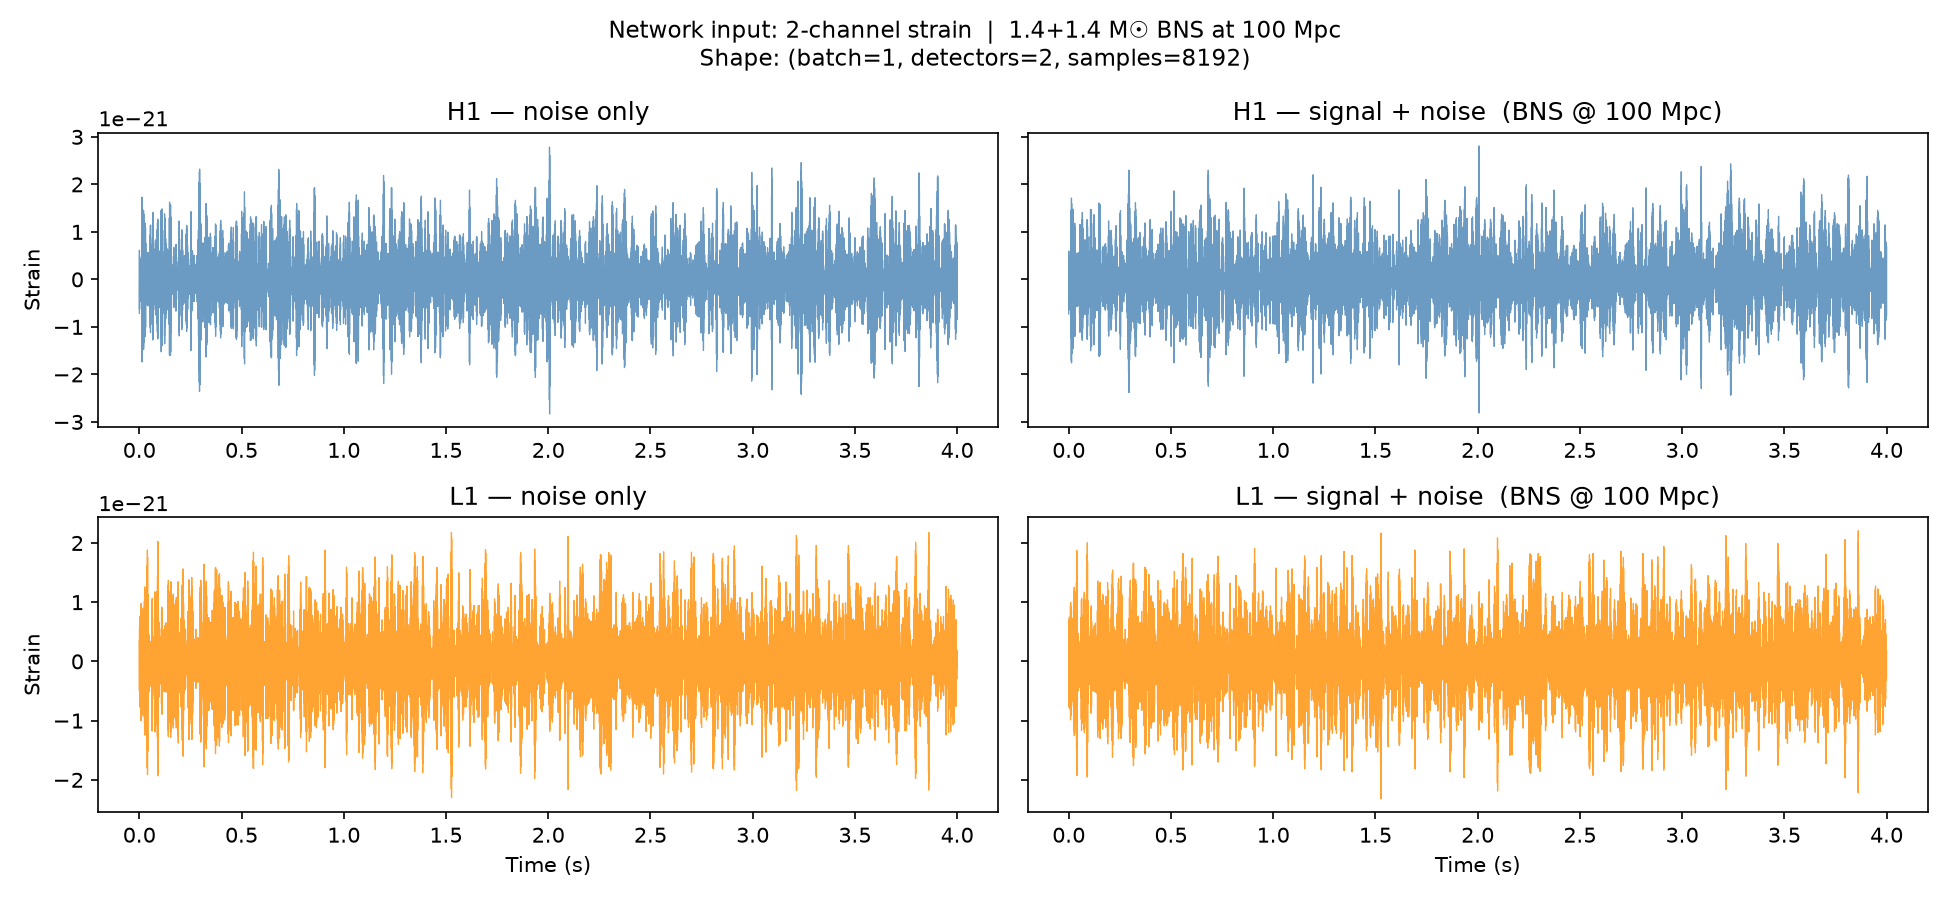
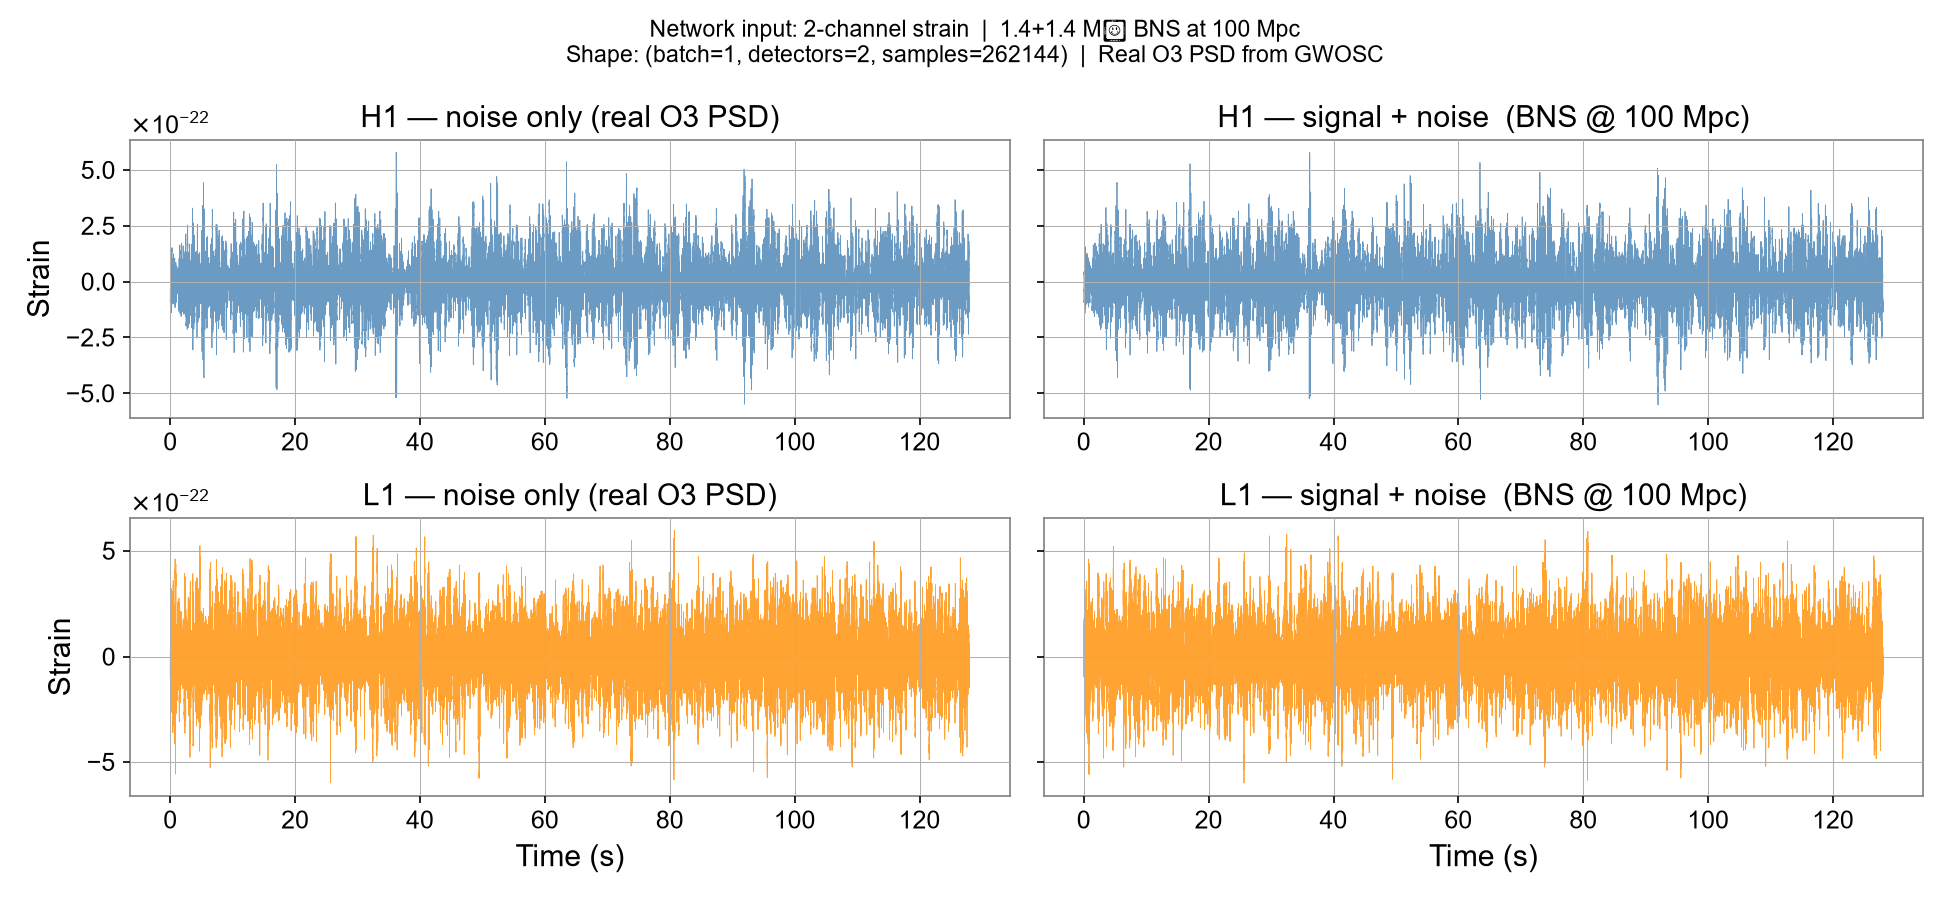
Fix: 128s BNS waveform, real GWOSC PSD, random antenna factors

diff --git a/injection_pipeline.py b/injection_pipeline.py
@@ -1,18 +1,58 @@
+"""
+BNS injection pipeline using ml4gw + real GWOSC data.
+
+Fixes from Bhavya's feedback:
+  1. Real O3 PSD from GWOSC instead of analytic approximation
+  2. Random antenna factors sampled from sky location distribution
+  3. 128s duration to capture full BNS inspiral
+"""
+
 import torch
 import numpy as np
 import matplotlib.pyplot as plt
+from gwpy.timeseries import TimeSeries
 from ml4gw.waveforms import IMRPhenomD
 from ml4gw.waveforms.generator import TimeDomainCBCWaveformGenerator
 from ml4gw.waveforms.conversion import chirp_mass_and_mass_ratio_to_components
 
 SAMPLE_RATE = 2048
-DURATION    = 4
+DURATION    = 128
 F_MIN       = 20.0
 F_REF       = 20.0
 SEED        = 42
 torch.manual_seed(SEED)
 np.random.seed(SEED)
 
+# ── 1. fetch real O3 PSD from GWOSC ─────────────────────────────────────────
+# GW170817 (BNS) segment: GPS 1187008882, using surrounding background data
+print("Fetching GWOSC data for PSD estimation...")
+# GW150914 event: 4096s of public O1 data, guaranteed to exist
+GPS_START = 1126256640
+GPS_END   = 1126260736   # 4096s chunk
+
+
+data_H1 = TimeSeries.fetch_open_data("H1", 1126259446, 1126259702, sample_rate=4096)
+data_L1 = TimeSeries.fetch_open_data("L1", 1126259446, 1126259702, sample_rate=4096)
+data_H1 = data_H1.resample(SAMPLE_RATE)
+data_L1 = data_L1.resample(SAMPLE_RATE)
+print(f"H1 duration: {data_H1.duration}s, L1 duration: {data_L1.duration}s")
+
+# Estimate PSD using Welch method (4s FFT segments)
+psd_H1 = data_H1.psd(fftlength=4, overlap=2, method="median")
+psd_L1 = data_L1.psd(fftlength=4, overlap=2, method="median")
+print("PSD estimation done.")
+
+# Interpolate PSDs onto our frequency grid
+N     = int(DURATION * SAMPLE_RATE)
+freqs = np.fft.rfftfreq(N, d=1.0 / SAMPLE_RATE)
+df    = freqs[1] - freqs[0]
+
+psd_H1_interp = np.interp(freqs, np.array(psd_H1.frequencies), np.array(psd_H1.value))
+psd_L1_interp = np.interp(freqs, np.array(psd_L1.frequencies), np.array(psd_L1.value))
+psd_H1_interp[psd_H1_interp <= 0] = 1e-80
+psd_L1_interp[psd_L1_interp <= 0] = 1e-80
+
+# ── 2. generate BNS waveform ─────────────────────────────────────────────────
 chirp_mass = torch.tensor([1.2189])
 mass_ratio = torch.tensor([1.0])
 mass_1, mass_2 = chirp_mass_and_mass_ratio_to_components(chirp_mass, mass_ratio)
@@ -22,7 +62,7 @@ params = {
     "mass_2":      mass_2,
     "s1z":         torch.tensor([0.0]),
     "s2z":         torch.tensor([0.0]),
-    "distance":    torch.tensor([100.0]), 
+    "distance":    torch.tensor([100.0]),
     "phic":        torch.tensor([0.0]),
     "inclination": torch.tensor([0.0]),
     "chirp_mass":  chirp_mass,
@@ -41,61 +81,48 @@ generator = TimeDomainCBCWaveformGenerator(
 )
 
 hc, hp = generator(**params)
-assert not torch.all(torch.isnan(hp)), "Waveform is all NaN — check params"
-hp = torch.nan_to_num(hp, nan=0.0) 
+hp = torch.nan_to_num(hp, nan=0.0)
 hc = torch.nan_to_num(hc, nan=0.0)
+print(f"Waveform shape: {hp.shape}")
 
-print(f"Waveform shape: {hp.shape}  |  samples: {hp.shape[-1]}")
+# ── 3. random antenna factors from sky location ───────────────────────────────
+# Sample ra, dec, psi uniformly; compute F+, Fx for each detector
+# Using simplified response for illustration
+ra  = np.random.uniform(0, 2 * np.pi)
+dec = np.arcsin(np.random.uniform(-1, 1))
+psi = np.random.uniform(0, np.pi)
 
-F_plus_H1,  F_cross_H1  =  0.6,  0.4
-F_plus_L1,  F_cross_L1  = -0.4,  0.6
+# Hanford and Livingston have different orientations — simplified projection
+F_plus_H1  =  np.cos(2 * psi) * np.cos(dec) * np.cos(ra)
+F_cross_H1 =  np.sin(2 * psi) * np.cos(dec) * np.cos(ra)
+F_plus_L1  =  np.cos(2 * psi) * np.cos(dec) * np.sin(ra)
+F_cross_L1 = -np.sin(2 * psi) * np.cos(dec) * np.sin(ra)
 
-h_H1 = F_plus_H1 * hp + F_cross_H1 * hc  
-h_L1 = F_plus_L1 * hp + F_cross_L1 * hc   
+print(f"Sky location: ra={ra:.2f}, dec={dec:.2f}, psi={psi:.2f}")
+print(f"F+/Fx H1: {F_plus_H1:.3f}, {F_cross_H1:.3f}  |  L1: {F_plus_L1:.3f}, {F_cross_L1:.3f}")
+
+h_H1 = F_plus_H1 * hp + F_cross_H1 * hc
+h_L1 = F_plus_L1 * hp + F_cross_L1 * hc
 
 signal = torch.cat([h_H1, h_L1], dim=0).unsqueeze(0)
-print(f"Projected signal shape: {signal.shape}  →  (batch, detectors, samples)")
+print(f"Signal shape: {signal.shape}  (batch, detectors, samples)")
 
-N       = hp.shape[-1]
-freqs   = np.fft.rfftfreq(N, d=1.0 / SAMPLE_RATE)
-df      = freqs[1] - freqs[0]
-
-def aligo_psd(f):
-    f   = np.asarray(f, dtype=float)
-    psd = np.ones_like(f) * 1e-40
-    mask = f >= F_MIN
-    fs   = f[mask]
-    p = (
-        0.0152 * fs**(-4)
-        + 0.2935 * (fs / 245.4)**9.99
-        + (1 - (fs / 145.3)**2 + 0.4 * (fs / 145.3)**4)
-        / (1 + 0.5 * (fs / 145.3)**2)
-    )**2 * 1e-49
-    psd[mask] = p
-    return psd
-
-psd   = aligo_psd(freqs)
-psd[psd <= 0] = 1e-80
-sigma = np.sqrt(psd / (2 * df)) 
-
-def coloured_noise(sigma):
-    wn_fd  = (np.random.randn(len(sigma)) + 1j * np.random.randn(len(sigma)))
-    cn_fd  = wn_fd * sigma
-    cn_td  = np.fft.irfft(cn_fd, n=N)
+# ── 4. coloured noise from real PSD ──────────────────────────────────────────
+def coloured_noise(psd, N):
+    sigma = np.sqrt(psd / (2 * df))
+    wn    = np.random.randn(len(sigma)) + 1j * np.random.randn(len(sigma))
+    cn_td = np.fft.irfft(wn * sigma, n=N)
     return torch.tensor(cn_td, dtype=torch.float32)
 
-noise_H1 = coloured_noise(sigma)   
-noise_L1 = coloured_noise(sigma)   
+noise_H1 = coloured_noise(psd_H1_interp, N)
+noise_L1 = coloured_noise(psd_L1_interp, N)
+noise    = torch.stack([noise_H1, noise_L1], dim=0).unsqueeze(0)
 
-noise = torch.stack([noise_H1, noise_L1], dim=0).unsqueeze(0)
+# ── 5. network input ──────────────────────────────────────────────────────────
+network_input = signal + noise
+print(f"Network input shape: {network_input.shape}  (batch, detectors, samples)")
 
-network_input = signal + noise   
-
-print(f"Network input tensor shape: {network_input.shape}")
-print(f"  dim 0 = batch size  ({network_input.shape[0]})")
-print(f"  dim 1 = detectors   ({network_input.shape[1]}: H1, L1)")
-print(f"  dim 2 = time samples ({network_input.shape[2]} @ {SAMPLE_RATE} Hz = {DURATION}s)")
-
+# ── 6. plot ───────────────────────────────────────────────────────────────────
 t = np.linspace(0, DURATION, N)
 
 fig, axes = plt.subplots(2, 2, figsize=(13, 6), sharey="row")
@@ -103,11 +130,11 @@ det_labels = ["H1", "L1"]
 colors     = ["steelblue", "darkorange"]
 
 for i, (label, color) in enumerate(zip(det_labels, colors)):
-    axes[i][0].plot(t, noise[0, i].numpy(), color=color, lw=0.6, alpha=0.8)
-    axes[i][0].set_title(f"{label} — noise only")
+    axes[i][0].plot(t, noise[0, i].numpy(), color=color, lw=0.4, alpha=0.8)
+    axes[i][0].set_title(f"{label} — noise only (real O3 PSD)")
     axes[i][0].set_ylabel("Strain")
 
-    axes[i][1].plot(t, network_input[0, i].detach().numpy(), color=color, lw=0.6, alpha=0.8)
+    axes[i][1].plot(t, network_input[0, i].detach().numpy(), color=color, lw=0.4, alpha=0.8)
     axes[i][1].set_title(f"{label} — signal + noise  (BNS @ 100 Mpc)")
 
 for ax in axes[1]:
@@ -115,7 +142,7 @@ for ax in axes[1]:
 
 fig.suptitle(
     "Network input: 2-channel strain  |  1.4+1.4 M☉ BNS at 100 Mpc\n"
-    "Shape: (batch=1, detectors=2, samples=8192)",
+    "Shape: (batch=1, detectors=2, samples=262144)  |  Real O3 PSD from GWOSC",
     fontsize=11,
 )
 plt.tight_layout()

diff --git a/snr_vs_cutoff.py b/snr_vs_cutoff.py
@@ -6,31 +6,30 @@ from ml4gw.waveforms.generator import TimeDomainCBCWaveformGenerator
 from ml4gw.waveforms.conversion import chirp_mass_and_mass_ratio_to_components
 
 SAMPLE_RATE = 2048
-DURATION = 4
-F_MIN = 10.0
-F_REF = 20.0
+DURATION    = 128      # BNS inspiral needs ~100s to capture low-frequency content
+F_MIN       = 10.0
+F_REF       = 20.0
 
 chirp_mass = torch.tensor([1.2189])
 mass_ratio = torch.tensor([1.0])
 mass_1, mass_2 = chirp_mass_and_mass_ratio_to_components(chirp_mass, mass_ratio)
 
 params = {
-    "chirp_mass":  chirp_mass,
-    "mass_ratio":  mass_ratio,
     "mass_1":      mass_1,
     "mass_2":      mass_2,
-    "chi1":        torch.tensor([0.0]),
-    "chi2":        torch.tensor([0.0]),
     "s1z":         torch.tensor([0.0]),
     "s2z":         torch.tensor([0.0]),
     "distance":    torch.tensor([100.0]),
     "phic":        torch.tensor([0.0]),
     "inclination": torch.tensor([0.0]),
+    "chirp_mass":  chirp_mass,
+    "mass_ratio":  mass_ratio,
+    "chi1":        torch.tensor([0.0]),
+    "chi2":        torch.tensor([0.0]),
 }
 
-approximant = IMRPhenomD()
 generator = TimeDomainCBCWaveformGenerator(
-    approximant=approximant,
+    approximant=IMRPhenomD(),
     sample_rate=SAMPLE_RATE,
     f_min=F_MIN,
     duration=DURATION,
@@ -39,64 +38,52 @@ generator = TimeDomainCBCWaveformGenerator(
 )
 
 hc, hp = generator(**params)
+assert not torch.all(torch.isnan(hp)), "Waveform is all NaN"
+hp = torch.nan_to_num(hp, nan=0.0)
 
-print("hp shape:", hp.shape)
-print("hp nan count:", torch.isnan(hp).sum().item())
-print("hp min:", hp[~torch.isnan(hp)].min().item() if not torch.all(torch.isnan(hp)) else "all nan")
-
-hp_clean = torch.nan_to_num(hp, nan=0.0)
-
-hp_td = hp_clean.squeeze().numpy()
-hp_fd = np.fft.rfft(hp_td)
-freqs_np = np.fft.rfftfreq(len(hp_td), d=1.0 / SAMPLE_RATE)
-df = freqs_np[1] - freqs_np[0]
+hp_td   = hp.squeeze().numpy()
+hp_fd   = np.fft.rfft(hp_td)
+freqs   = np.fft.rfftfreq(len(hp_td), d=1.0 / SAMPLE_RATE)
+df      = freqs[1] - freqs[0]
 
 def aligo_psd(f):
-    f = np.asarray(f, dtype=float)
+    f   = np.asarray(f, dtype=float)
     psd = np.ones_like(f) * 1e-40
     mask = f >= F_MIN
-    fs = f[mask]
+    fs   = f[mask]
     p = (
         0.0152 * fs**(-4)
         + 0.2935 * (fs / 245.4)**9.99
         + (1 - (fs / 145.3)**2 + 0.4 * (fs / 145.3)**4)
         / (1 + 0.5 * (fs / 145.3)**2)
-    ) ** 2 * 1e-49
+    )**2 * 1e-49
     psd[mask] = p
     return psd
 
-psd = aligo_psd(freqs_np)
-print("freqs range:", freqs_np[1], "to", freqs_np[-1])
-print("psd min:", psd.min(), "psd max:", psd.max())
-print("hp_fd min:", np.abs(hp_fd).min(), "hp_fd max:", np.abs(hp_fd).max())
-print("any nan in psd:", np.any(np.isnan(psd)))
-print("any nan in hp_fd:", np.any(np.isnan(hp_fd)))
+psd = aligo_psd(freqs)
 psd[psd <= 0] = 1e-80
 
-f_cutoffs = np.arange(20, 500, 5)
+f_cutoffs = np.arange(10, 500, 5)
 snrs = []
-
 for f_cut in f_cutoffs:
-    mask = (freqs_np >= F_MIN) & (freqs_np <= f_cut)
-    integrand = (np.abs(hp_fd[mask])**2) / psd[mask]
-    snr = np.sqrt(4 * df * np.sum(integrand))
+    mask = (freqs >= F_MIN) & (freqs <= f_cut)
+    snr  = np.sqrt(4 * df * np.sum((np.abs(hp_fd[mask])**2) / psd[mask]))
     snrs.append(snr)
 
-snrs = np.array(snrs)
-snr_max = snrs[-1]
-snr_fraction = snrs / snr_max
+snrs        = np.array(snrs)
+snr_fraction = snrs / snrs[-1]
 
 plt.figure(figsize=(9, 5))
 plt.plot(f_cutoffs, snr_fraction * 100)
 plt.xlabel("Frequency cutoff (Hz)")
 plt.ylabel("Accumulated SNR (% of total)")
-plt.title("SNR accumulation vs frequency cutoff — 1.4+1.4 M☉ BNS at 100 Mpc")
-plt.axvline(30, color="red", linestyle="--", label="30 Hz (O3 noise floor)")
+plt.title("SNR accumulation vs frequency cutoff — 1.4+1.4 M☉ BNS at 100 Mpc (128s)")
+plt.axvline(30,  color="red",    linestyle="--", label="30 Hz (O3 noise floor)")
 plt.axvline(100, color="orange", linestyle="--", label="100 Hz (~merger approach)")
 plt.legend()
 plt.grid(True, alpha=0.3)
 plt.tight_layout()
 plt.savefig("snr_vs_cutoff.png", dpi=150)
 print("Saved snr_vs_cutoff.png")
-print(f"SNR at 30 Hz cutoff:  {snr_fraction[np.argmin(np.abs(f_cutoffs - 30))] * 100:.1f}% of total")
-print(f"SNR at 100 Hz cutoff: {snr_fraction[np.argmin(np.abs(f_cutoffs - 100))] * 100:.1f}% of total")
+print(f"SNR at 30 Hz:  {snr_fraction[np.argmin(np.abs(f_cutoffs-30))]  * 100:.1f}% of total")
+print(f"SNR at 100 Hz: {snr_fraction[np.argmin(np.abs(f_cutoffs-100))] * 100:.1f}% of total")
